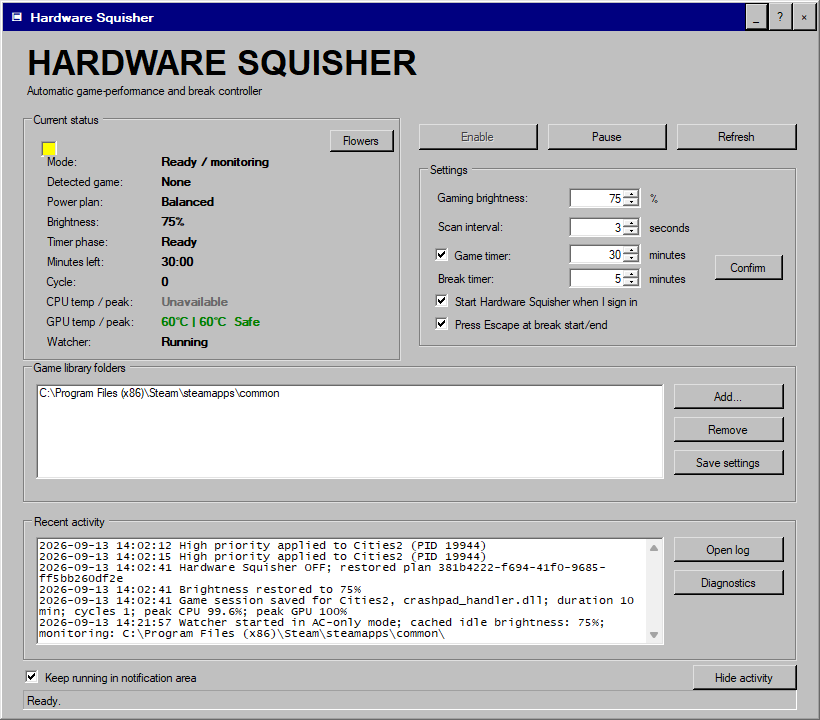
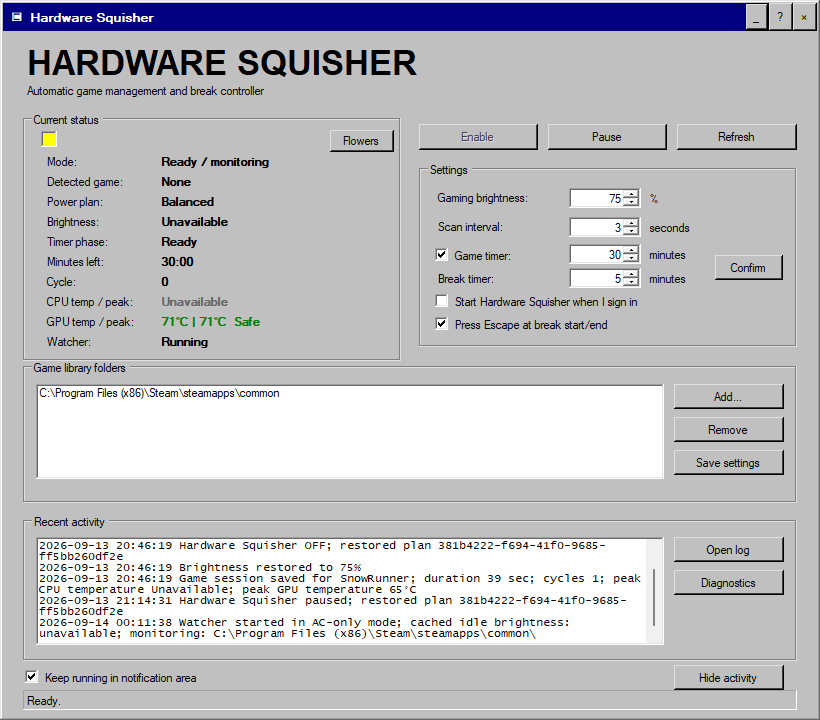
Fix status indicator spacing

diff --git a/HardwareSquisherSetup.cs b/HardwareSquisherSetup.cs
@@ -473,7 +473,7 @@ namespace HardwareSquisherInstaller
             {
                 if (key == null) throw new InvalidOperationException("Could not register uninstall support.");
                 key.SetValue("DisplayName", "Hardware Squisher");
-                key.SetValue("DisplayVersion", "1.12.0");
+                key.SetValue("DisplayVersion", "1.12.1");
                 key.SetValue("Publisher", "Hardware Squisher");
                 key.SetValue("InstallLocation", installRoot);
                 key.SetValue("DisplayIcon", iconPath);

diff --git a/HardwareSquisher.cs b/HardwareSquisher.cs
@@ -871,7 +871,7 @@ namespace HardwareSquisher
             statusSurface.Controls.Add(flowerPanel);
 
             statusLamp = new Panel();
-            statusLamp.Location = new Point(15, 13);
+            statusLamp.Location = new Point(15, 3);
             statusLamp.Size = new Size(16, 16);
             statusLamp.BorderStyle = BorderStyle.Fixed3D;
             statusFrontPanel.Controls.Add(statusLamp);

diff --git a/README.md b/README.md
@@ -53,7 +53,7 @@ This compiles the AnyCPU application, runs the safety and RTX compatibility test
 
 ## Verification
 
-The v1.12.0 package was verified on September 13, 2026 before publication. The Game Management watcher contains no process-priority controls. When a timer ends, a topmost plain-language Windows 98-style alert repeats the Windows alarm sound until **Stop alarm** is pressed. Secondary-dialog buttons use a fixed classic border so focus cannot add an inconsistent heavy edge. Hide activity aligns with Open log and Diagnostics. MSI Afterburner CPU temperature access is read-only. The timer cycle itself continues in the background.
+The v1.12.1 package was verified on September 14, 2026 before publication. The status indicator stays clear of the Mode row, and the Game Management watcher contains no process-priority controls. When a timer ends, a topmost plain-language Windows 98-style alert repeats the Windows alarm sound until **Stop alarm** is pressed. Secondary-dialog buttons use a fixed classic border so focus cannot add an inconsistent heavy edge. Hide activity aligns with Open log and Diagnostics. MSI Afterburner CPU temperature access is read-only. The timer cycle itself continues in the background.
 
 - AnyCPU application and installer compilation: **PASS**
 - PowerShell safety, sensor-access, portability, and interface-alignment suite: **29/29 checks passed**

diff --git a/CHANGELOG.md b/CHANGELOG.md
@@ -1,6 +1,11 @@
 # Hardware Squisher changelog
 
-## 1.12.0 — current
+## 1.12.1 — current
+
+- Moved the status indicator upward so it no longer overlaps the Mode row.
+- Kept the existing Windows 98 layout and all Game Management behavior unchanged.
+
+## 1.12.0
 
 - Changed the application's core description from game performance control to **Game Management**.
 - Removed automatic High and Above Normal process-priority changes from the watcher.
